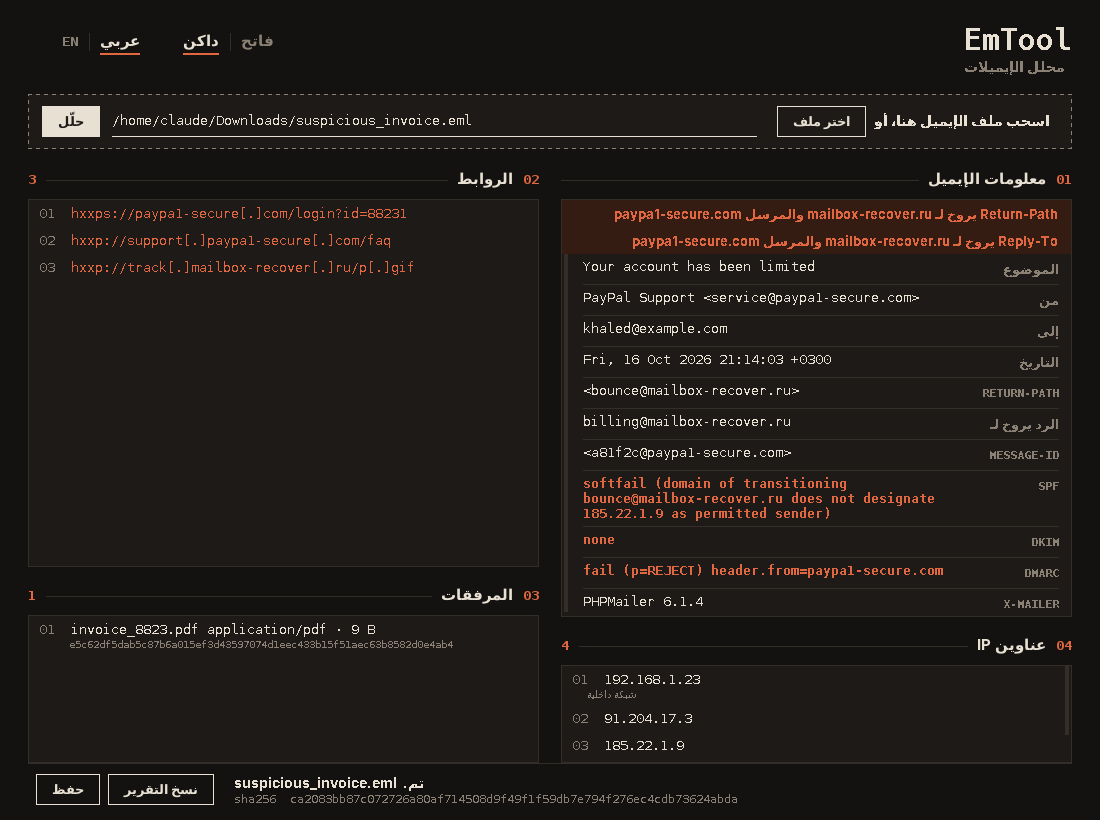
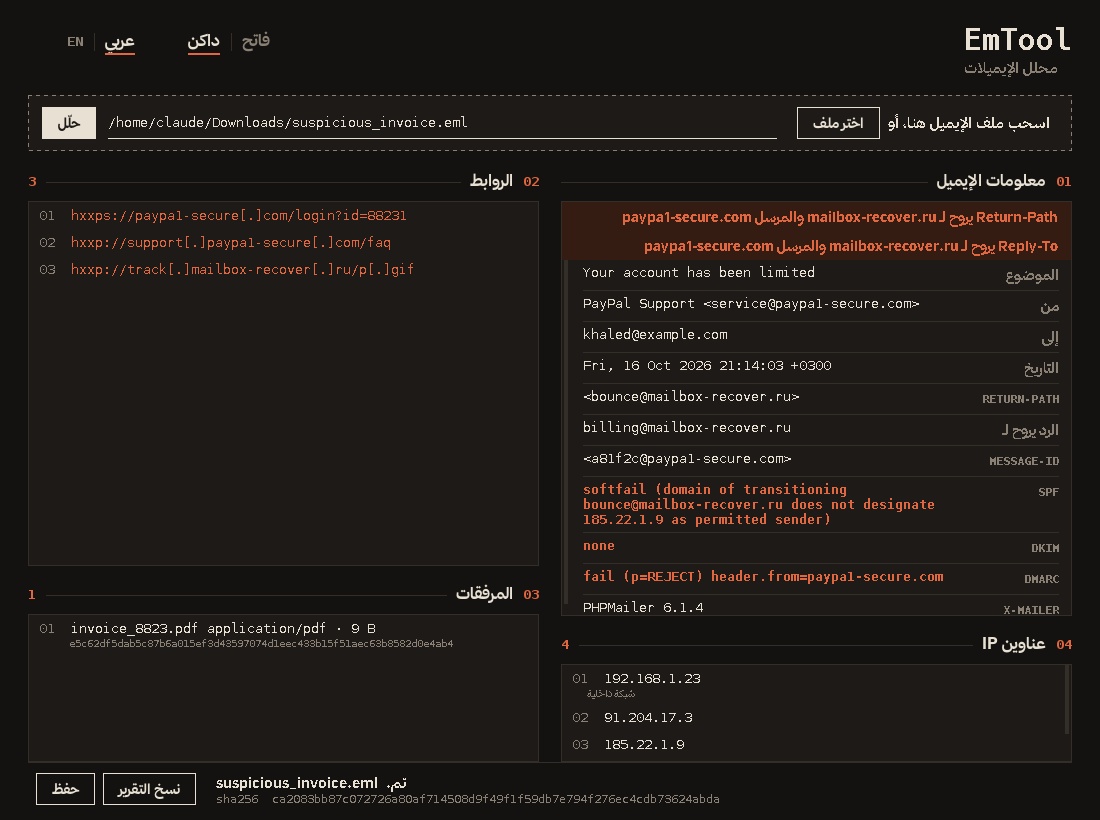
Use Thmanyah Sans Medium and Bold faces when available

diff --git a/EmAnalizeTool/EmToolGUI.java b/EmAnalizeTool/EmToolGUI.java
@@ -31,16 +31,18 @@ public class EmToolGUI extends JFrame {
 
     static String hex(Color c) { return String.format("#%06X", c.getRGB() & 0xFFFFFF); }
 
-    static final String UI_FAMILY = findUiFamily();
+    static final Font FACE_MED  = face("medium");
+    static final Font FACE_BOLD = face("bold");
+    static final String UI_FAMILY = FACE_BOLD.getFamily();
 
     static final Font MONO      = new Font(Font.MONOSPACED, Font.PLAIN, 13);
     static final Font MONO_BOLD = new Font(Font.MONOSPACED, Font.BOLD, 13);
     static final Font MONO_SMALL = new Font(Font.MONOSPACED, Font.PLAIN, 11);
     static final Font MARK      = new Font(Font.MONOSPACED, Font.BOLD, 30);
-    static final Font UI        = new Font(UI_FAMILY, Font.BOLD, 14);
-    static final Font UI_SMALL  = new Font(UI_FAMILY, Font.BOLD, 12);
-    static final Font UI_BOLD   = new Font(UI_FAMILY, Font.BOLD, 13);
-    static final Font UI_TITLE  = new Font(UI_FAMILY, Font.BOLD, 15);
+    static final Font UI        = FACE_MED.deriveFont(15f);
+    static final Font UI_SMALL  = FACE_MED.deriveFont(13f);
+    static final Font UI_BOLD   = FACE_BOLD.deriveFont(14f);
+    static final Font UI_TITLE  = FACE_BOLD.deriveFont(16f);
 
     // strings
     static final String[][] TEXT = {
@@ -498,23 +500,29 @@ public class EmToolGUI extends JFrame {
 
     // fonts
 
-    static String findUiFamily() {
+    static boolean fontsLoaded;
+
+    static Font face(String weight) {
         GraphicsEnvironment ge = GraphicsEnvironment.getLocalGraphicsEnvironment();
-        for (File dir : new File[]{new File("fonts"), new File(codeDir(), "fonts")}) {
-            File[] files = dir.listFiles((d, n) -> n.toLowerCase().matches(".*\\.(ttf|otf)$"));
-            if (files == null) continue;
-            for (File f : files) {
-                try { ge.registerFont(Font.createFont(Font.TRUETYPE_FONT, f)); } catch (Exception ignored) { }
+        if (!fontsLoaded) {
+            fontsLoaded = true;
+            for (File dir : new File[]{new File("fonts"), new File(codeDir(), "fonts")}) {
+                File[] files = dir.listFiles((d, n) -> n.toLowerCase().matches(".*\\.(ttf|otf)$"));
+                if (files == null) continue;
+                for (File f : files) {
+                    try { ge.registerFont(Font.createFont(Font.TRUETYPE_FONT, f)); } catch (Exception ignored) { }
+                }
             }
         }
-        String fallback = null;
-        for (String fam : ge.getAvailableFontFamilyNames(Locale.ROOT)) {
-            String low = fam.toLowerCase();
-            if (!low.contains("thmanyah") && !fam.contains("ثمانية")) continue;
-            if (low.contains("sans")) return fam;
-            if (fallback == null) fallback = fam;
+        Font any = null;
+        for (Font f : ge.getAllFonts()) {
+            String n = f.getFontName(Locale.ROOT).toLowerCase();
+            if (!n.contains("thmanyah sans") && !n.contains("thmanyahsans")) continue;
+            if (n.endsWith(weight)) return f.deriveFont(Font.PLAIN, 14f);
+            if (n.endsWith("bold") || any == null) any = f;
         }
-        return fallback != null ? fallback : Font.DIALOG;
+        if (any != null) return any.deriveFont(Font.PLAIN, 14f);
+        return new Font(Font.DIALOG, Font.BOLD, 14);
     }
 
     static File codeDir() {
